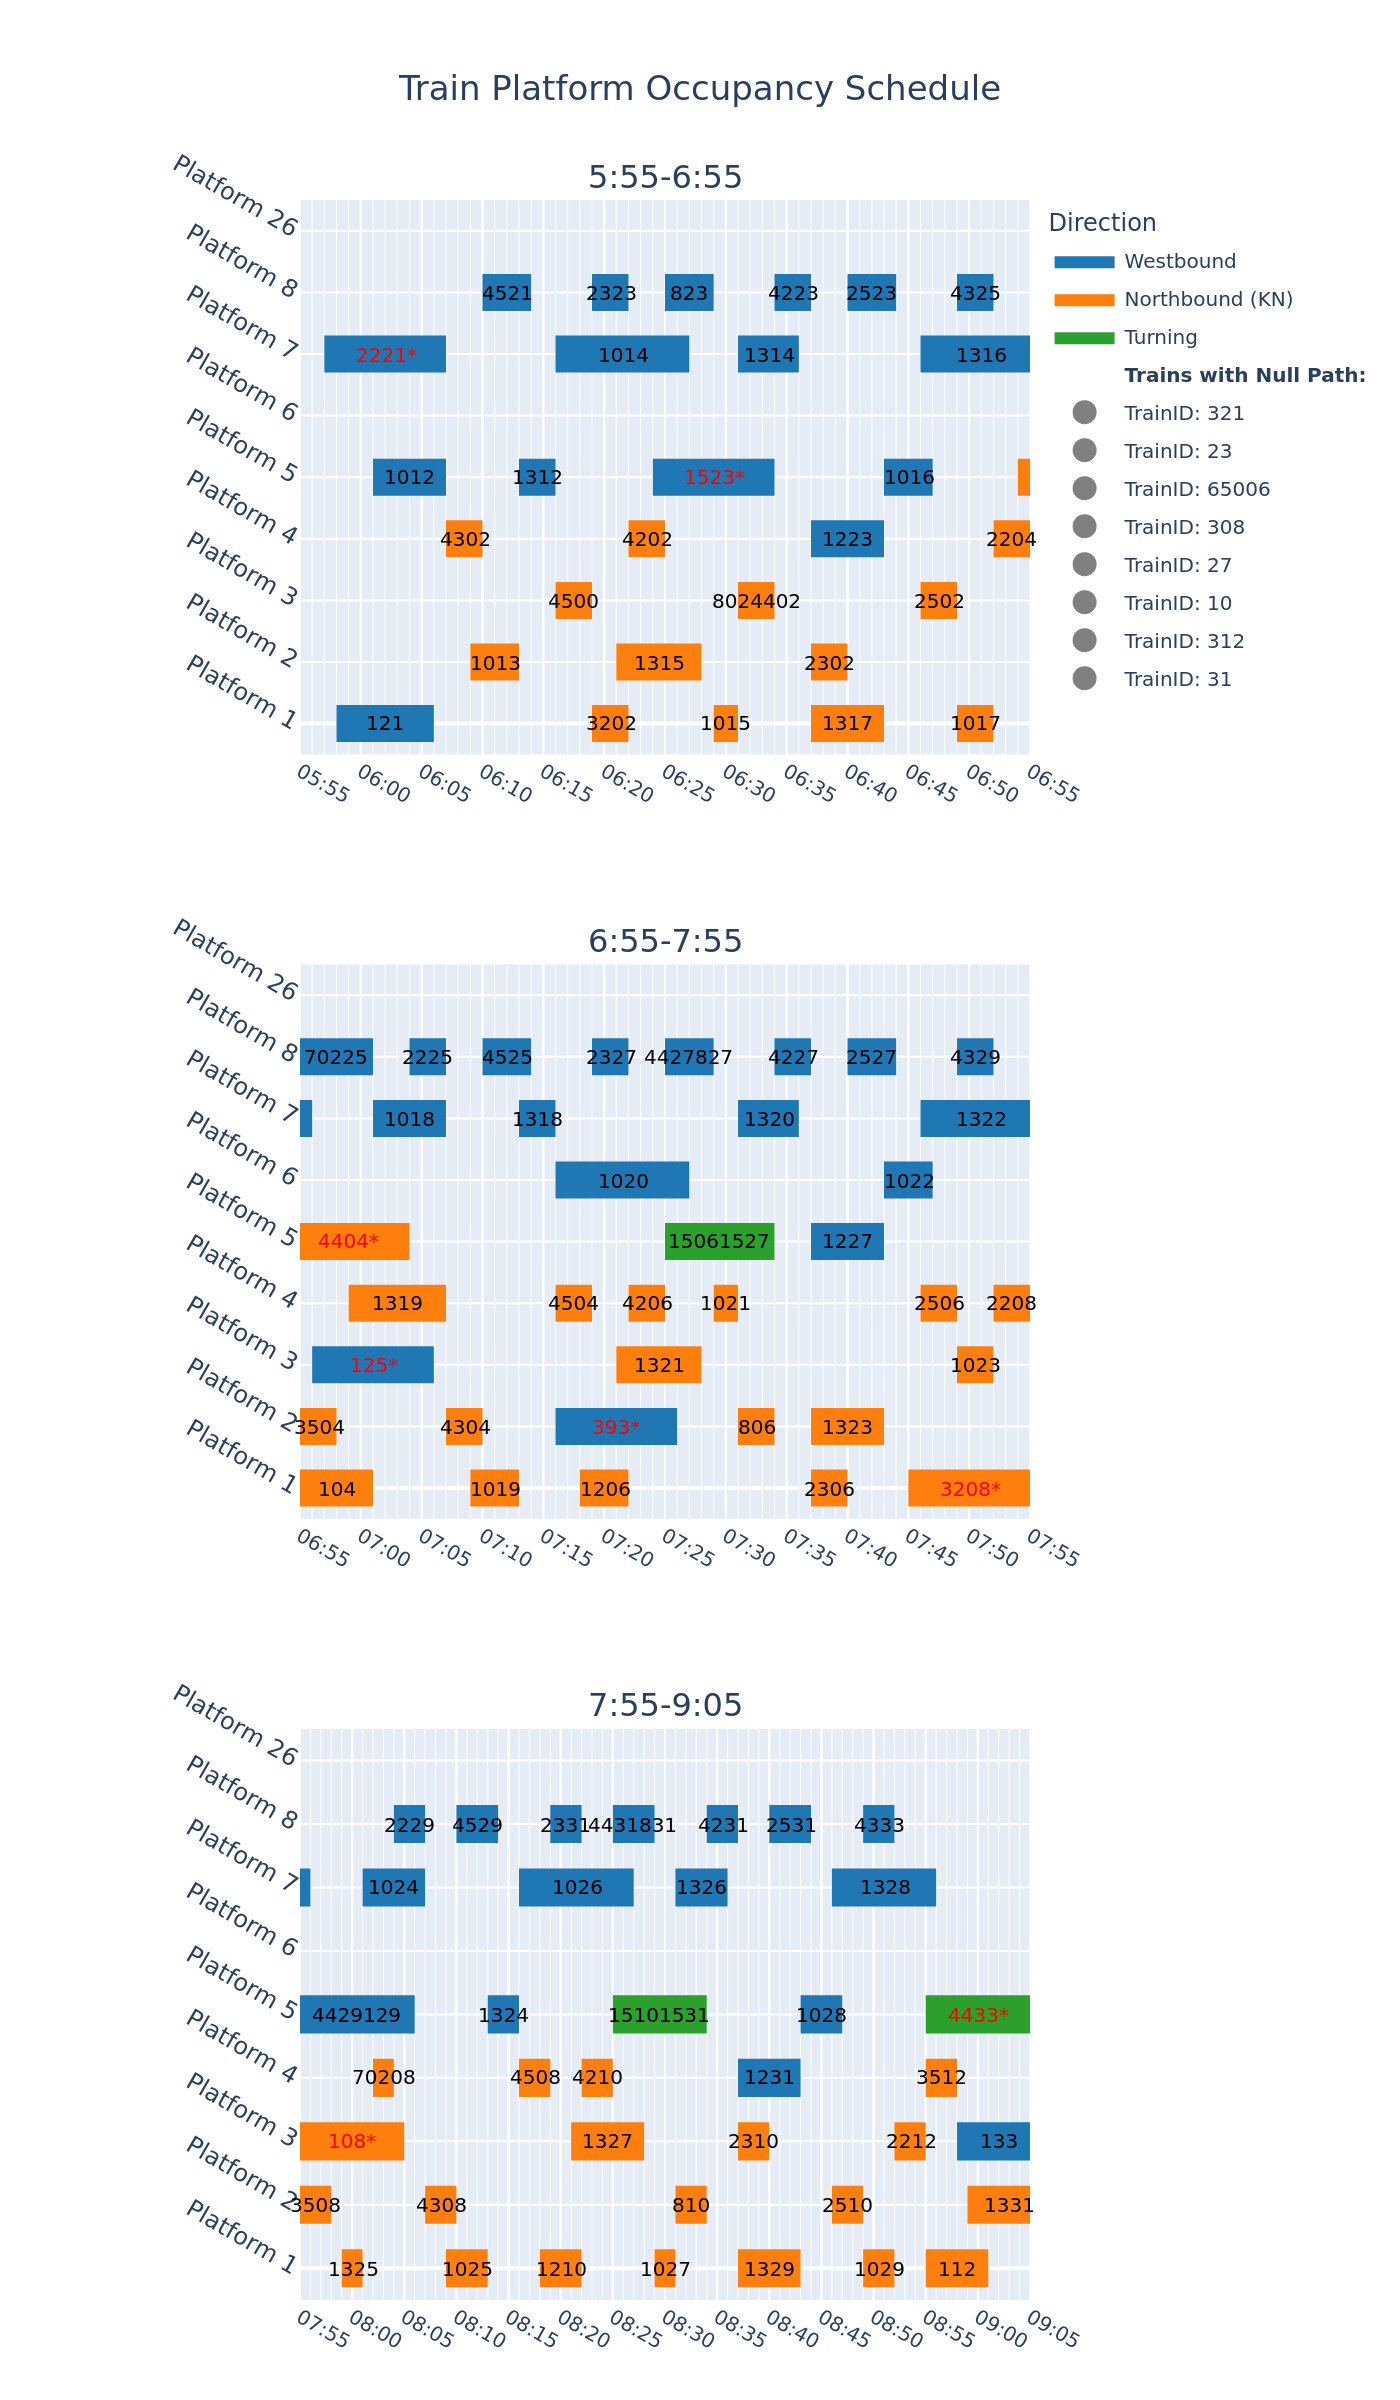
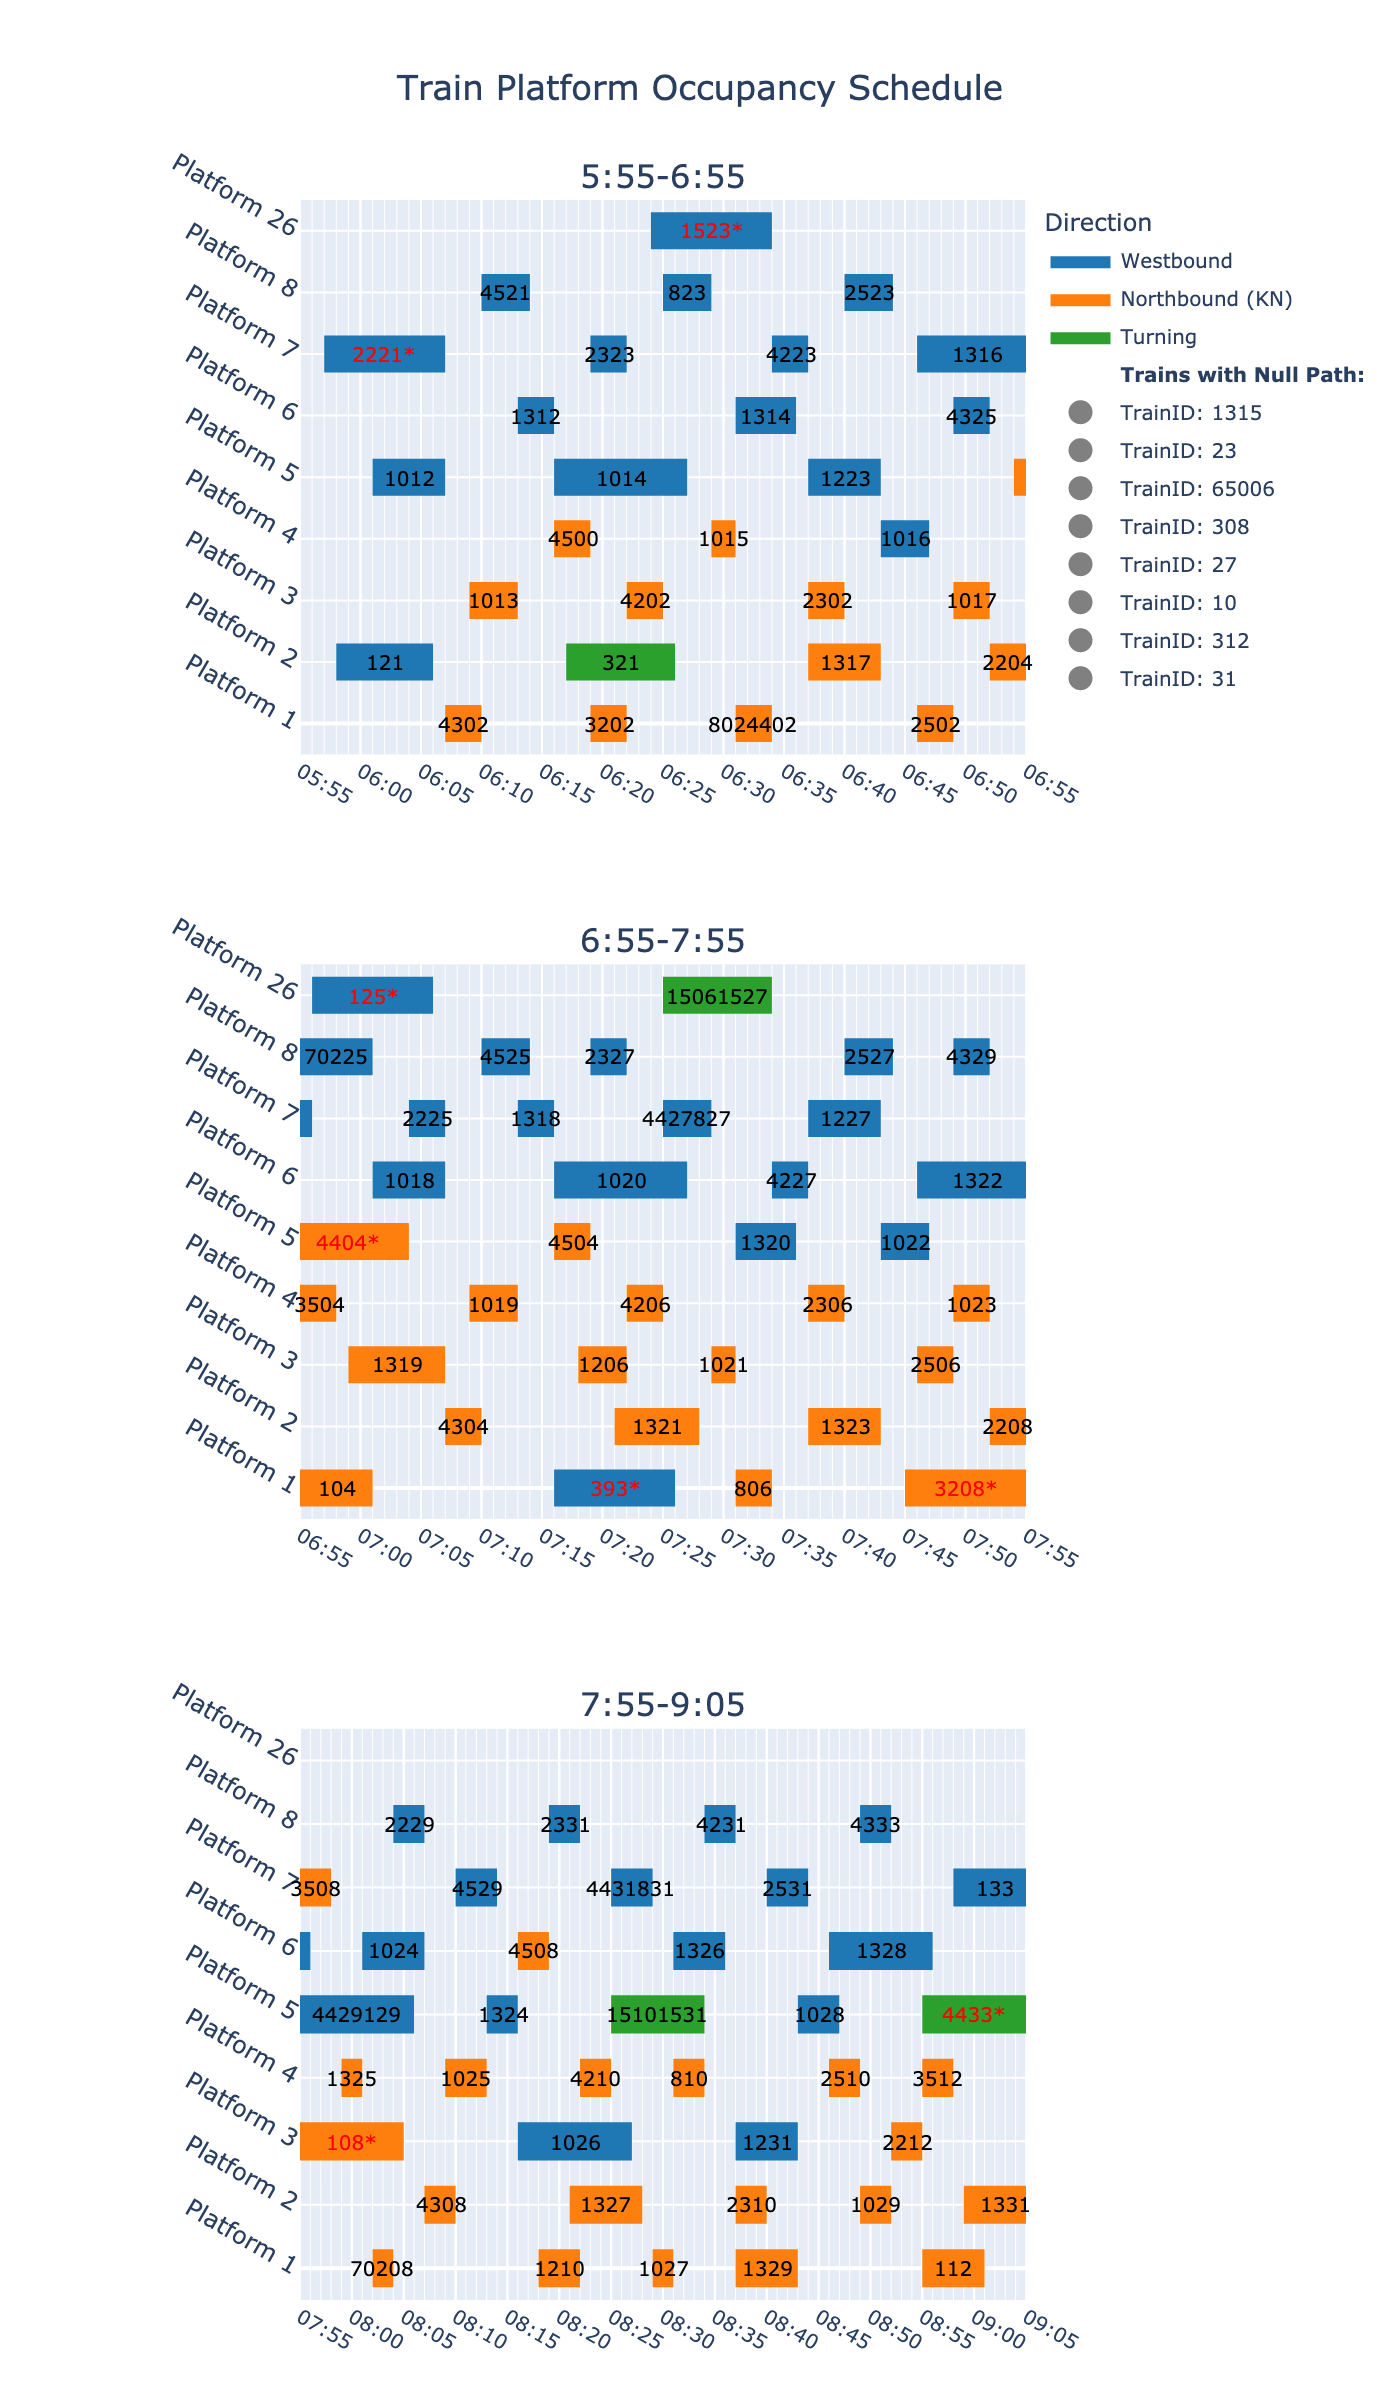
Update

diff --git a/visuals.py b/visuals.py
@@ -183,4 +183,4 @@ fig.update_layout(
     hovermode='closest'
 )
 
-fig.write_image("data_2022_0.3.png", scale=2)
+fig.write_image("data_2022_full.png", scale=2)
